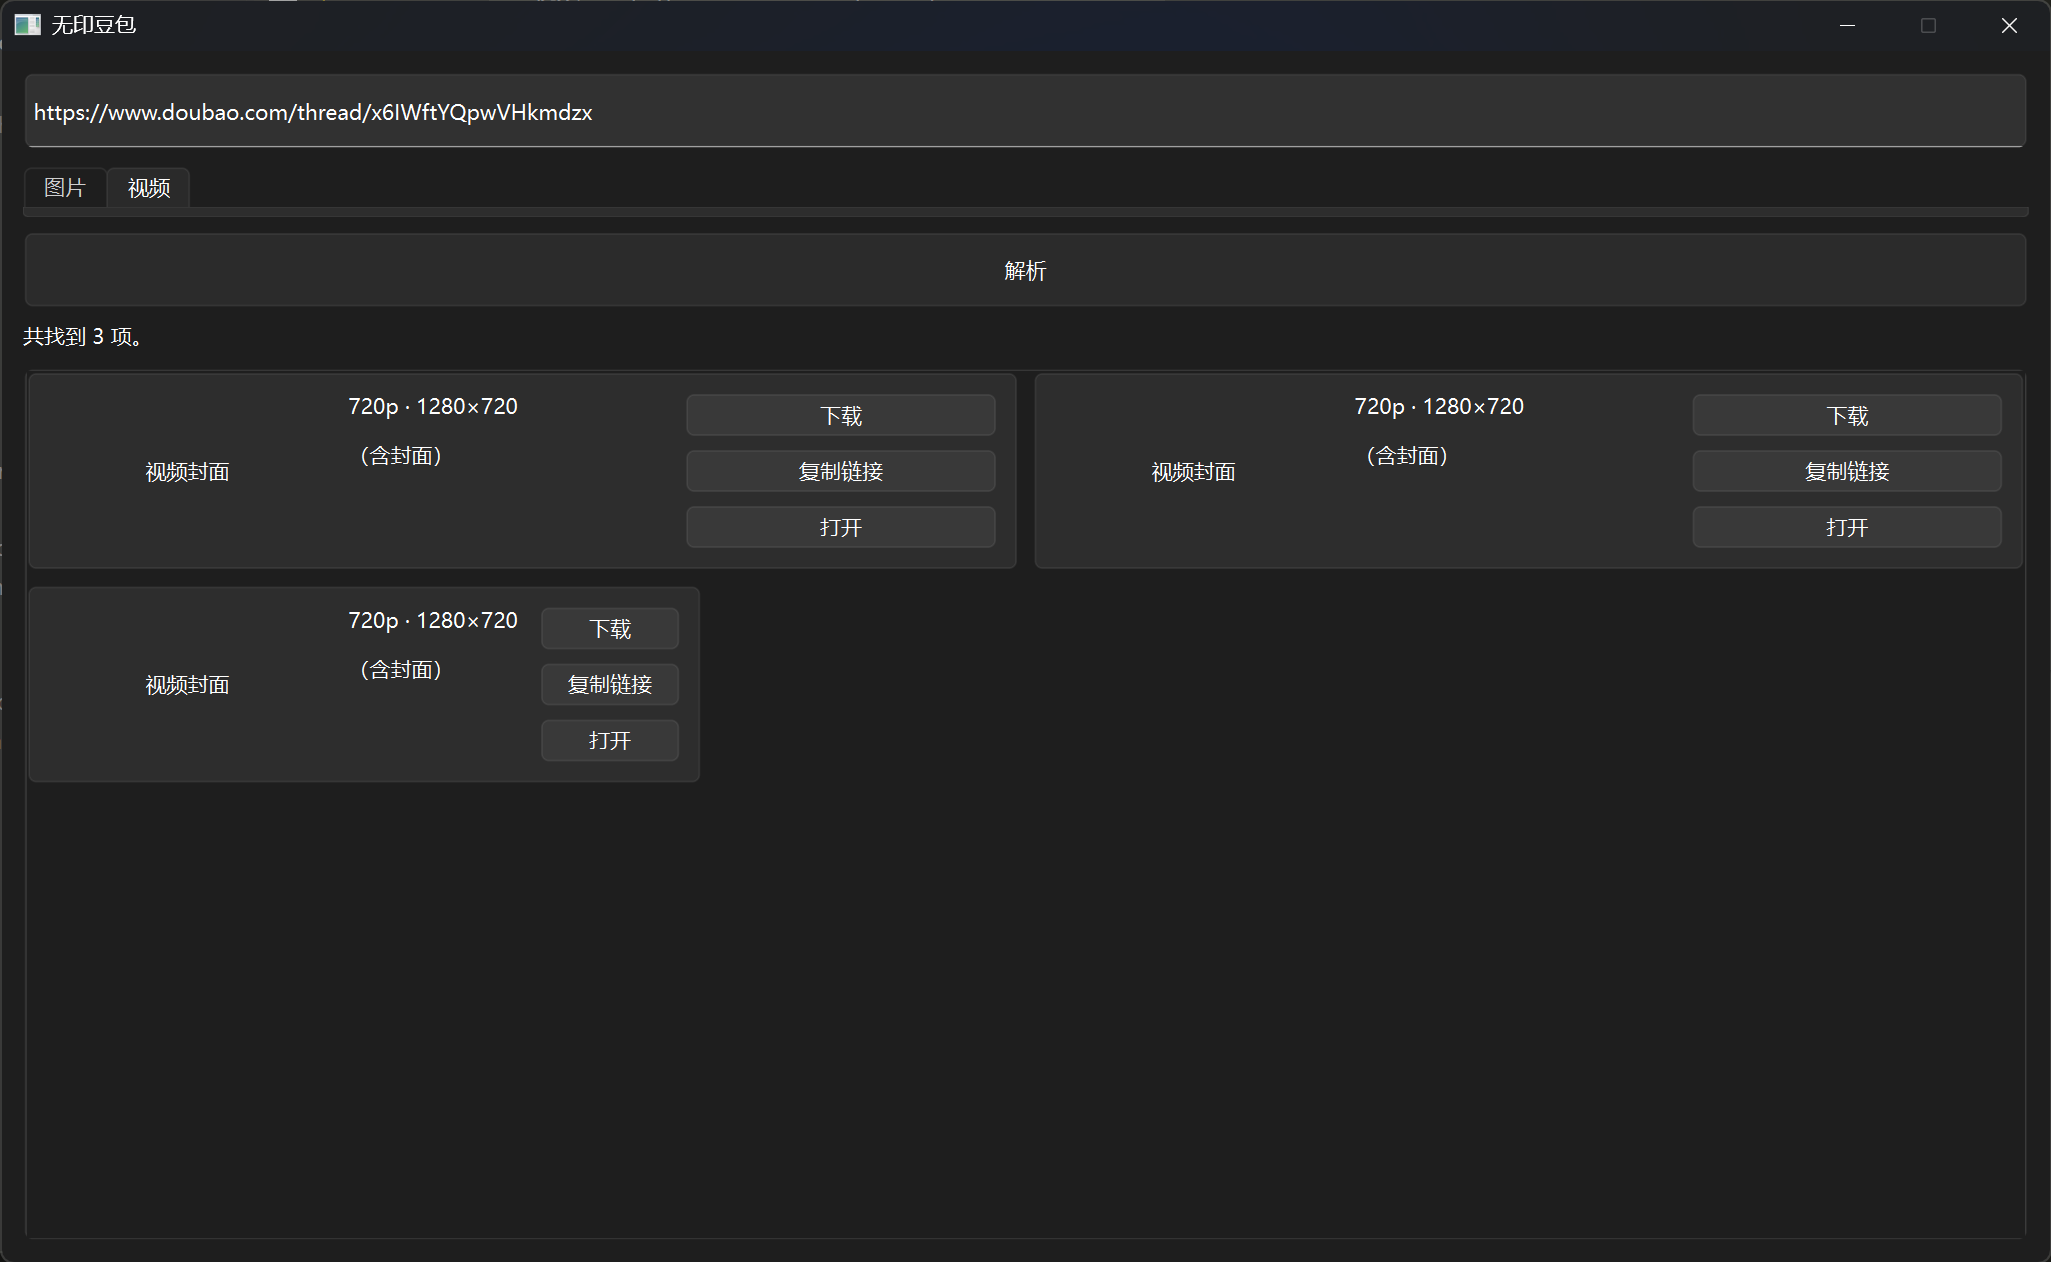
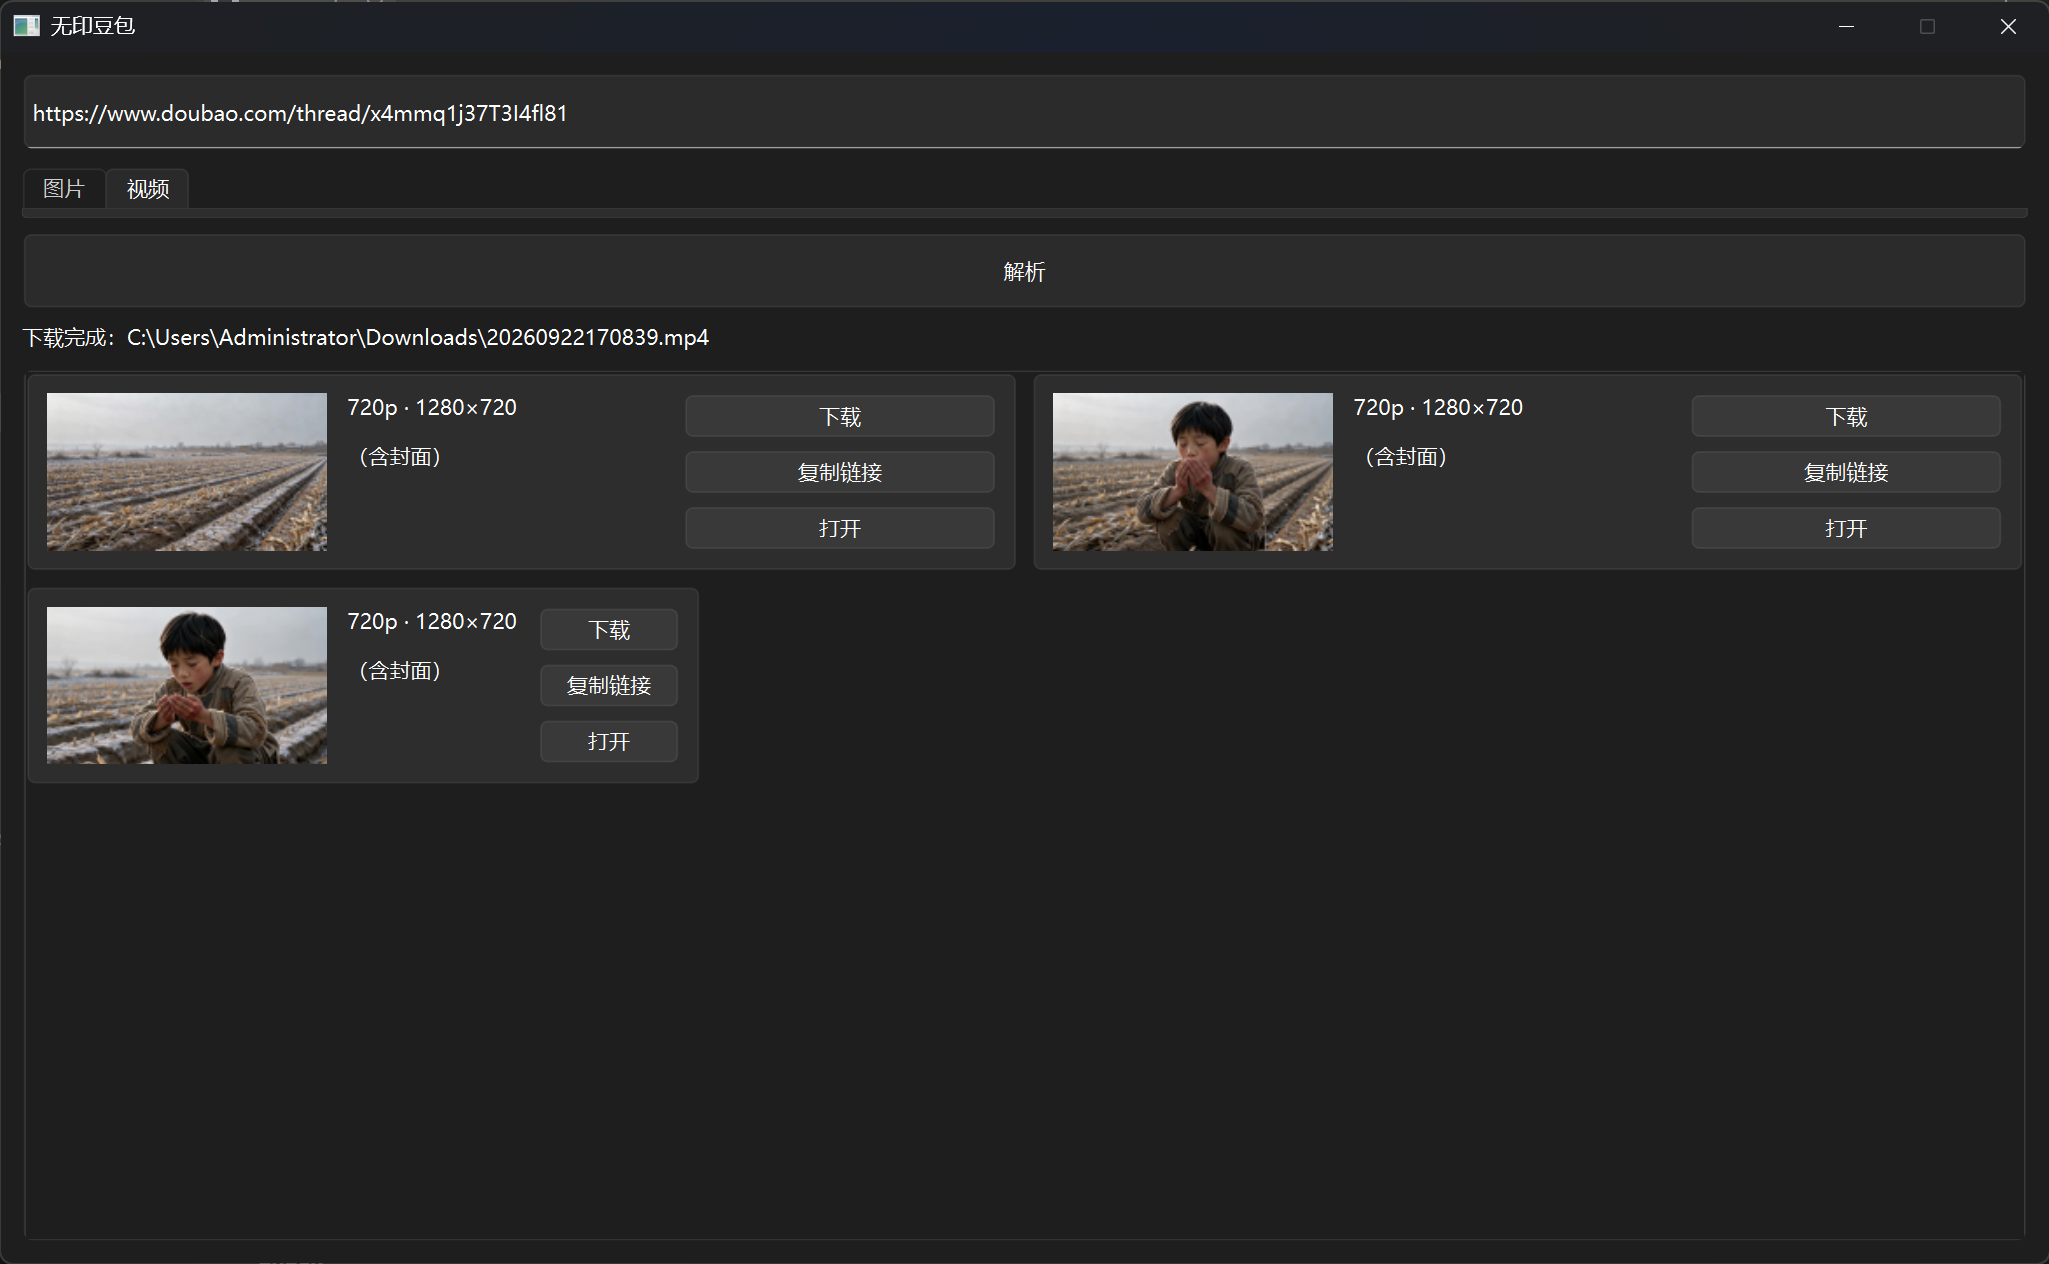
feat: display video cover from poster_url, SSR poster_url fallback + v0.1.1

diff --git a/parser/video.py b/parser/video.py
@@ -21,6 +21,27 @@ DOUBAO_HEADERS = {
 FALLBACK_API_PARAMS = {"codec_type": "8", "logo_type": "unwatermarked"}
 FALLBACK_API_HOST_SUFFIXES = (".snssdk.com", ".douyinvod.com", ".dola.com", ".byteintlapi.com")
 
+_SSR_SCRIPT_SOURCE = re.compile(r'data-script-src="(?:modern-run-router-data-fn|modern-run-window-fn)"')
+
+
+def _iter_ssr_payloads(page_html: str):
+    """遍历分享页 SSR 脚本中的 data-fn-args JSON 载荷（纯逻辑）。"""
+    found_script = False
+    for script_match in re.finditer(r"<script\b[^>]*>", page_html, re.DOTALL):
+        script_tag = script_match.group(0)
+        if not _SSR_SCRIPT_SOURCE.search(script_tag):
+            continue
+        args_match = re.search(r'data-fn-args="(.*?)"', script_tag, re.DOTALL)
+        if not args_match:
+            continue
+        try:
+            yield json.loads(html.unescape(args_match.group(1)))
+            found_script = True
+        except json.JSONDecodeError:
+            continue
+    if not found_script:
+        raise KeyError("无法解析页面数据，请确认链接是否有效")
+
 
 def _build_unwatermarked_url(url: str) -> str:
     parsed = urllib.parse.urlsplit(url)
@@ -44,7 +65,6 @@ def _build_unwatermarked_url(url: str) -> str:
 
 def _extract_fallback_apis(page_html: str) -> list:
     apis: dict[str, None] = {}
-    parsed_script = False
 
     def add_api(candidate: str) -> None:
         candidate = html.unescape(candidate).replace(r"\u0026", "&").replace(r"\/", "/")
@@ -72,23 +92,41 @@ def _extract_fallback_apis(page_html: str) -> list:
             except json.JSONDecodeError:
                 pass
 
-    source_pattern = re.compile(r'data-script-src="(?:modern-run-router-data-fn|modern-run-window-fn)"')
-    for script_match in re.finditer(r"<script\b[^>]*>", page_html, re.DOTALL):
-        script_tag = script_match.group(0)
-        if not source_pattern.search(script_tag):
-            continue
-        args_match = re.search(r'data-fn-args="(.*?)"', script_tag, re.DOTALL)
-        if not args_match:
-            continue
-        try:
-            walk(json.loads(html.unescape(args_match.group(1))))
-            parsed_script = True
-        except json.JSONDecodeError:
-            continue
-
-    if not parsed_script:
-        raise KeyError("无法解析页面数据，请确认链接是否有效")
+    for payload in _iter_ssr_payloads(page_html):
+        walk(payload)
     return list(apis)
+
+
+def _extract_poster_urls(page_html: str) -> dict[str, str]:
+    """从分享页 SSR 数据提取 vid -> 未加水印封面 URL 的映射（纯逻辑）。
+
+    仅收集与同一对象中 vid/video_id 相邻的 poster_url，作为
+    fallback_api 响应缺少封面时的兜底来源。
+    """
+    poster_by_vid: dict[str, str] = {}
+
+    def walk(value: Any, depth: int = 0) -> None:
+        if depth > 30 or value is None:
+            return
+        if isinstance(value, dict):
+            vid = value.get("vid") or value.get("video_id")
+            poster = value.get("poster_url")
+            if isinstance(vid, str) and isinstance(poster, str) and poster.startswith("https://"):
+                poster_by_vid.setdefault(vid, poster)
+            for child in value.values():
+                walk(child, depth + 1)
+        elif isinstance(value, list):
+            for child in value:
+                walk(child, depth + 1)
+        elif isinstance(value, str) and value.lstrip().startswith(("{", "[")):
+            try:
+                walk(json.loads(value), depth + 1)
+            except json.JSONDecodeError:
+                pass
+
+    for payload in _iter_ssr_payloads(page_html):
+        walk(payload)
+    return poster_by_vid
 
 
 def _parse_doubao_video_response(payload: dict, fallback_api: str) -> dict:
@@ -156,6 +194,7 @@ def doubao_video_parse(url: str, return_raw: bool = False) -> list[dict]:
         fallback_apis = _extract_fallback_apis(page_response.text)
         if not fallback_apis:
             raise KeyError("页面中未找到视频 fallback_api，请确认分享链接包含可用视频")
+        poster_by_vid = _extract_poster_urls(page_response.text)
 
         video_list = []
         errors = []
@@ -169,6 +208,8 @@ def doubao_video_parse(url: str, return_raw: bool = False) -> list[dict]:
                     return payload
 
                 result = _parse_doubao_video_response(payload, fallback_api)
+                if not result.get("poster_url"):
+                    result["poster_url"] = poster_by_vid.get(str(result.get("vid") or ""), "")
                 identity = str(result["vid"] or result["url"])
                 if identity not in seen_videos:
                     seen_videos.add(identity)

diff --git a/tests/parser/test_video.py b/tests/parser/test_video.py
@@ -7,6 +7,7 @@ import pytest
 from parser.video import (
     _build_unwatermarked_url,
     _extract_fallback_apis,
+    _extract_poster_urls,
     _parse_doubao_video_response,
     doubao_video_parse,
 )
@@ -85,6 +86,55 @@ class TestExtractFallbackAPIs:
             _extract_fallback_apis("<html><body>none</body></html>")
 
 
+class TestExtractPosterUrls:
+    def test_maps_vid_to_poster_url(self):
+        args = json.dumps(
+            {
+                "data": {
+                    "message": {
+                        "vid": "VID1",
+                        "poster_url": "https://p26-sign.douyinpic.com/tos/p1~tplv-noop.image?a=1",
+                        "nested": [
+                            {"vid": "VID2", "poster_url": "https://p3-sign.douyinpic.com/tos/p2~tplv-noop.image?b=2"}
+                        ],
+                    }
+                }
+            }
+        )
+        page = "<html><body>" + _script(args) + "</body></html>"
+        assert _extract_poster_urls(page) == {
+            "VID1": "https://p26-sign.douyinpic.com/tos/p1~tplv-noop.image?a=1",
+            "VID2": "https://p3-sign.douyinpic.com/tos/p2~tplv-noop.image?b=2",
+        }
+
+    def test_first_poster_wins_on_duplicate_vid(self):
+        args = json.dumps(
+            {
+                "videos": [
+                    {"vid": "VID1", "poster_url": "https://a.douyinpic.com/tos/1"},
+                    {"vid": "VID1", "poster_url": "https://b.douyinpic.com/tos/2"},
+                ]
+            }
+        )
+        page = "<html><body>" + _script(args) + "</body></html>"
+        assert _extract_poster_urls(page) == {"VID1": "https://a.douyinpic.com/tos/1"}
+
+    def test_ignores_non_https_and_missing_poster(self):
+        args = json.dumps(
+            {
+                "vid": "VID1",
+                "poster_url": "http://insecure.example/tos/2",
+                "no_poster": {"vid": "VID3", "other": 1},
+            }
+        )
+        page = "<html><body>" + _script(args) + "</body></html>"
+        assert _extract_poster_urls(page) == {}
+
+    def test_raises_keyerror_when_no_script(self):
+        with pytest.raises(KeyError):
+            _extract_poster_urls("<html><body>none</body></html>")
+
+
 def _response_payload(main_url: str, resolution: tuple[int, int] = (1080, 1920), extra: dict | None = None):
     width, height = resolution
     entry = {
@@ -152,3 +202,52 @@ class TestDoubaoVideoParseValidation:
     def test_rejects_unsupported_domain(self):
         with pytest.raises(ValueError):
             doubao_video_parse("https://www.qianwen.com/thread/abc")
+
+
+class _FakeResp:
+    def __init__(self, text: str = "", payload: dict | None = None):
+        self.text = text
+        self._payload = payload
+
+    def raise_for_status(self):
+        pass
+
+    def json(self):
+        return self._payload
+
+
+class TestDoubaoVideoParsePosterFallback:
+    FALLBACK_API = "https://v3.douyinvod.com/video/fplay/abc?x=1"
+    VID = "VID123"
+    SSR_POSTER = "https://p26-sign.douyinpic.com/tos/p1~tplv-noop.image?a=1"
+
+    def _page_html(self) -> str:
+        payload = {
+            "data": {
+                "message": {
+                    "vid": self.VID,
+                    "poster_url": self.SSR_POSTER,
+                    "video": {"fallback_api": self.FALLBACK_API},
+                }
+            }
+        }
+        return _script(json.dumps(payload))
+
+    def _stub_fetch(self, monkeypatch, api_payload: dict):
+        calls = iter([_FakeResp(text=self._page_html()), _FakeResp(payload=api_payload)])
+        monkeypatch.setattr("parser.video._fetch", lambda *a, **k: next(calls))
+
+    def test_falls_back_to_ssr_poster_when_api_lacks_it(self, monkeypatch):
+        api_payload = _response_payload(_wrapped_url("https://v3.douyinvod.com/video/fplay/out.mp4"))
+        self._stub_fetch(monkeypatch, api_payload)
+
+        result = doubao_video_parse("https://www.doubao.com/thread/abc123")
+        assert result[0]["poster_url"] == self.SSR_POSTER
+
+    def test_api_poster_takes_precedence_over_ssr(self, monkeypatch):
+        api_payload = _response_payload(_wrapped_url("https://v3.douyinvod.com/video/fplay/out.mp4"))
+        api_payload["data"]["video_info"]["poster_url"] = "https://api.example/tos/api"
+        self._stub_fetch(monkeypatch, api_payload)
+
+        result = doubao_video_parse("https://www.doubao.com/thread/abc123")
+        assert result[0]["poster_url"] == "https://api.example/tos/api"

diff --git a/app/main_window.py b/app/main_window.py
@@ -145,18 +145,19 @@ class MainWindow(QMainWindow):
                 card.download_requested.connect(self._on_download)
                 card.copy_requested.connect(self._on_copy_link)
                 card.open_requested.connect(self._on_open)
+                self._load_thumbnail(card, item, item.get("poster_url"))
             else:
                 card = ImageCard(item)
                 card.download_requested.connect(self._on_download)
                 card.copy_requested.connect(self._on_copy_link)
                 card.view_requested.connect(self._on_open)
-                self._load_thumbnail(card, item)
+                self._load_thumbnail(card, item, item.get("url"))
             self._add_card(card)
         self.status_label.setText(f"共找到 {len(items)} 项。")
 
-    def _load_thumbnail(self, card, item: dict) -> None:
-        """后台下载缩略图，完成后刷新卡片预览。"""
-        url = item.get("url")
+    def _load_thumbnail(self, card, item: dict, url) -> None:
+        """后台下载封面/缩略图，完成后刷新卡片预览。"""
+        url = item.get("url") if url is None else url
         if not url:
             return
         thumb_dir = os.path.join(tempfile.gettempdir(), "doubao_remove_mark_thumbs")

diff --git a/app/widgets.py b/app/widgets.py
@@ -196,6 +196,7 @@ class VideoCard(QFrame):
         layout.setSpacing(12)
 
         cover = QLabel()
+        self._cover = cover
         pixmap = _load_pixmap(cover_path)
         if not pixmap.isNull():
             cover.setPixmap(pixmap.scaled(160, 90, Qt.KeepAspectRatio, Qt.SmoothTransformation))
@@ -229,3 +230,12 @@ class VideoCard(QFrame):
         button_layout.addWidget(copy_btn)
         button_layout.addWidget(open_btn)
         layout.addLayout(button_layout)
+
+    def set_thumbnail(self, pixmap: QPixmap) -> None:
+        """解析完成后回填视频封面（poster）。"""
+        if self._cover is None:
+            return
+        scaled = pixmap.scaled(160, 90, Qt.KeepAspectRatio, Qt.SmoothTransformation)
+        self._cover.setText("")
+        self._cover.setPixmap(scaled)
+        self._cover.setFixedSize(scaled.size())

diff --git a/tests/app/test_gui_smoke.py b/tests/app/test_gui_smoke.py
@@ -31,3 +31,13 @@ def test_image_card_constructs(qapp):
 def test_video_card_constructs(qapp):
     card = VideoCard({"url": "https://x.com/v.mp4", "width": 1920, "height": 1080, "definition": "2k"})
     assert card.video["definition"] == "2k"
+
+
+def test_video_card_set_thumbnail(qapp):
+    from PySide6.QtGui import QPixmap
+
+    card = VideoCard({"url": "https://x.com/v.mp4", "poster_url": "https://x.com/poster.jpg"})
+    pixmap = QPixmap(160, 90)
+    pixmap.fill()
+    card.set_thumbnail(pixmap)
+    assert not card._cover.pixmap().isNull()
